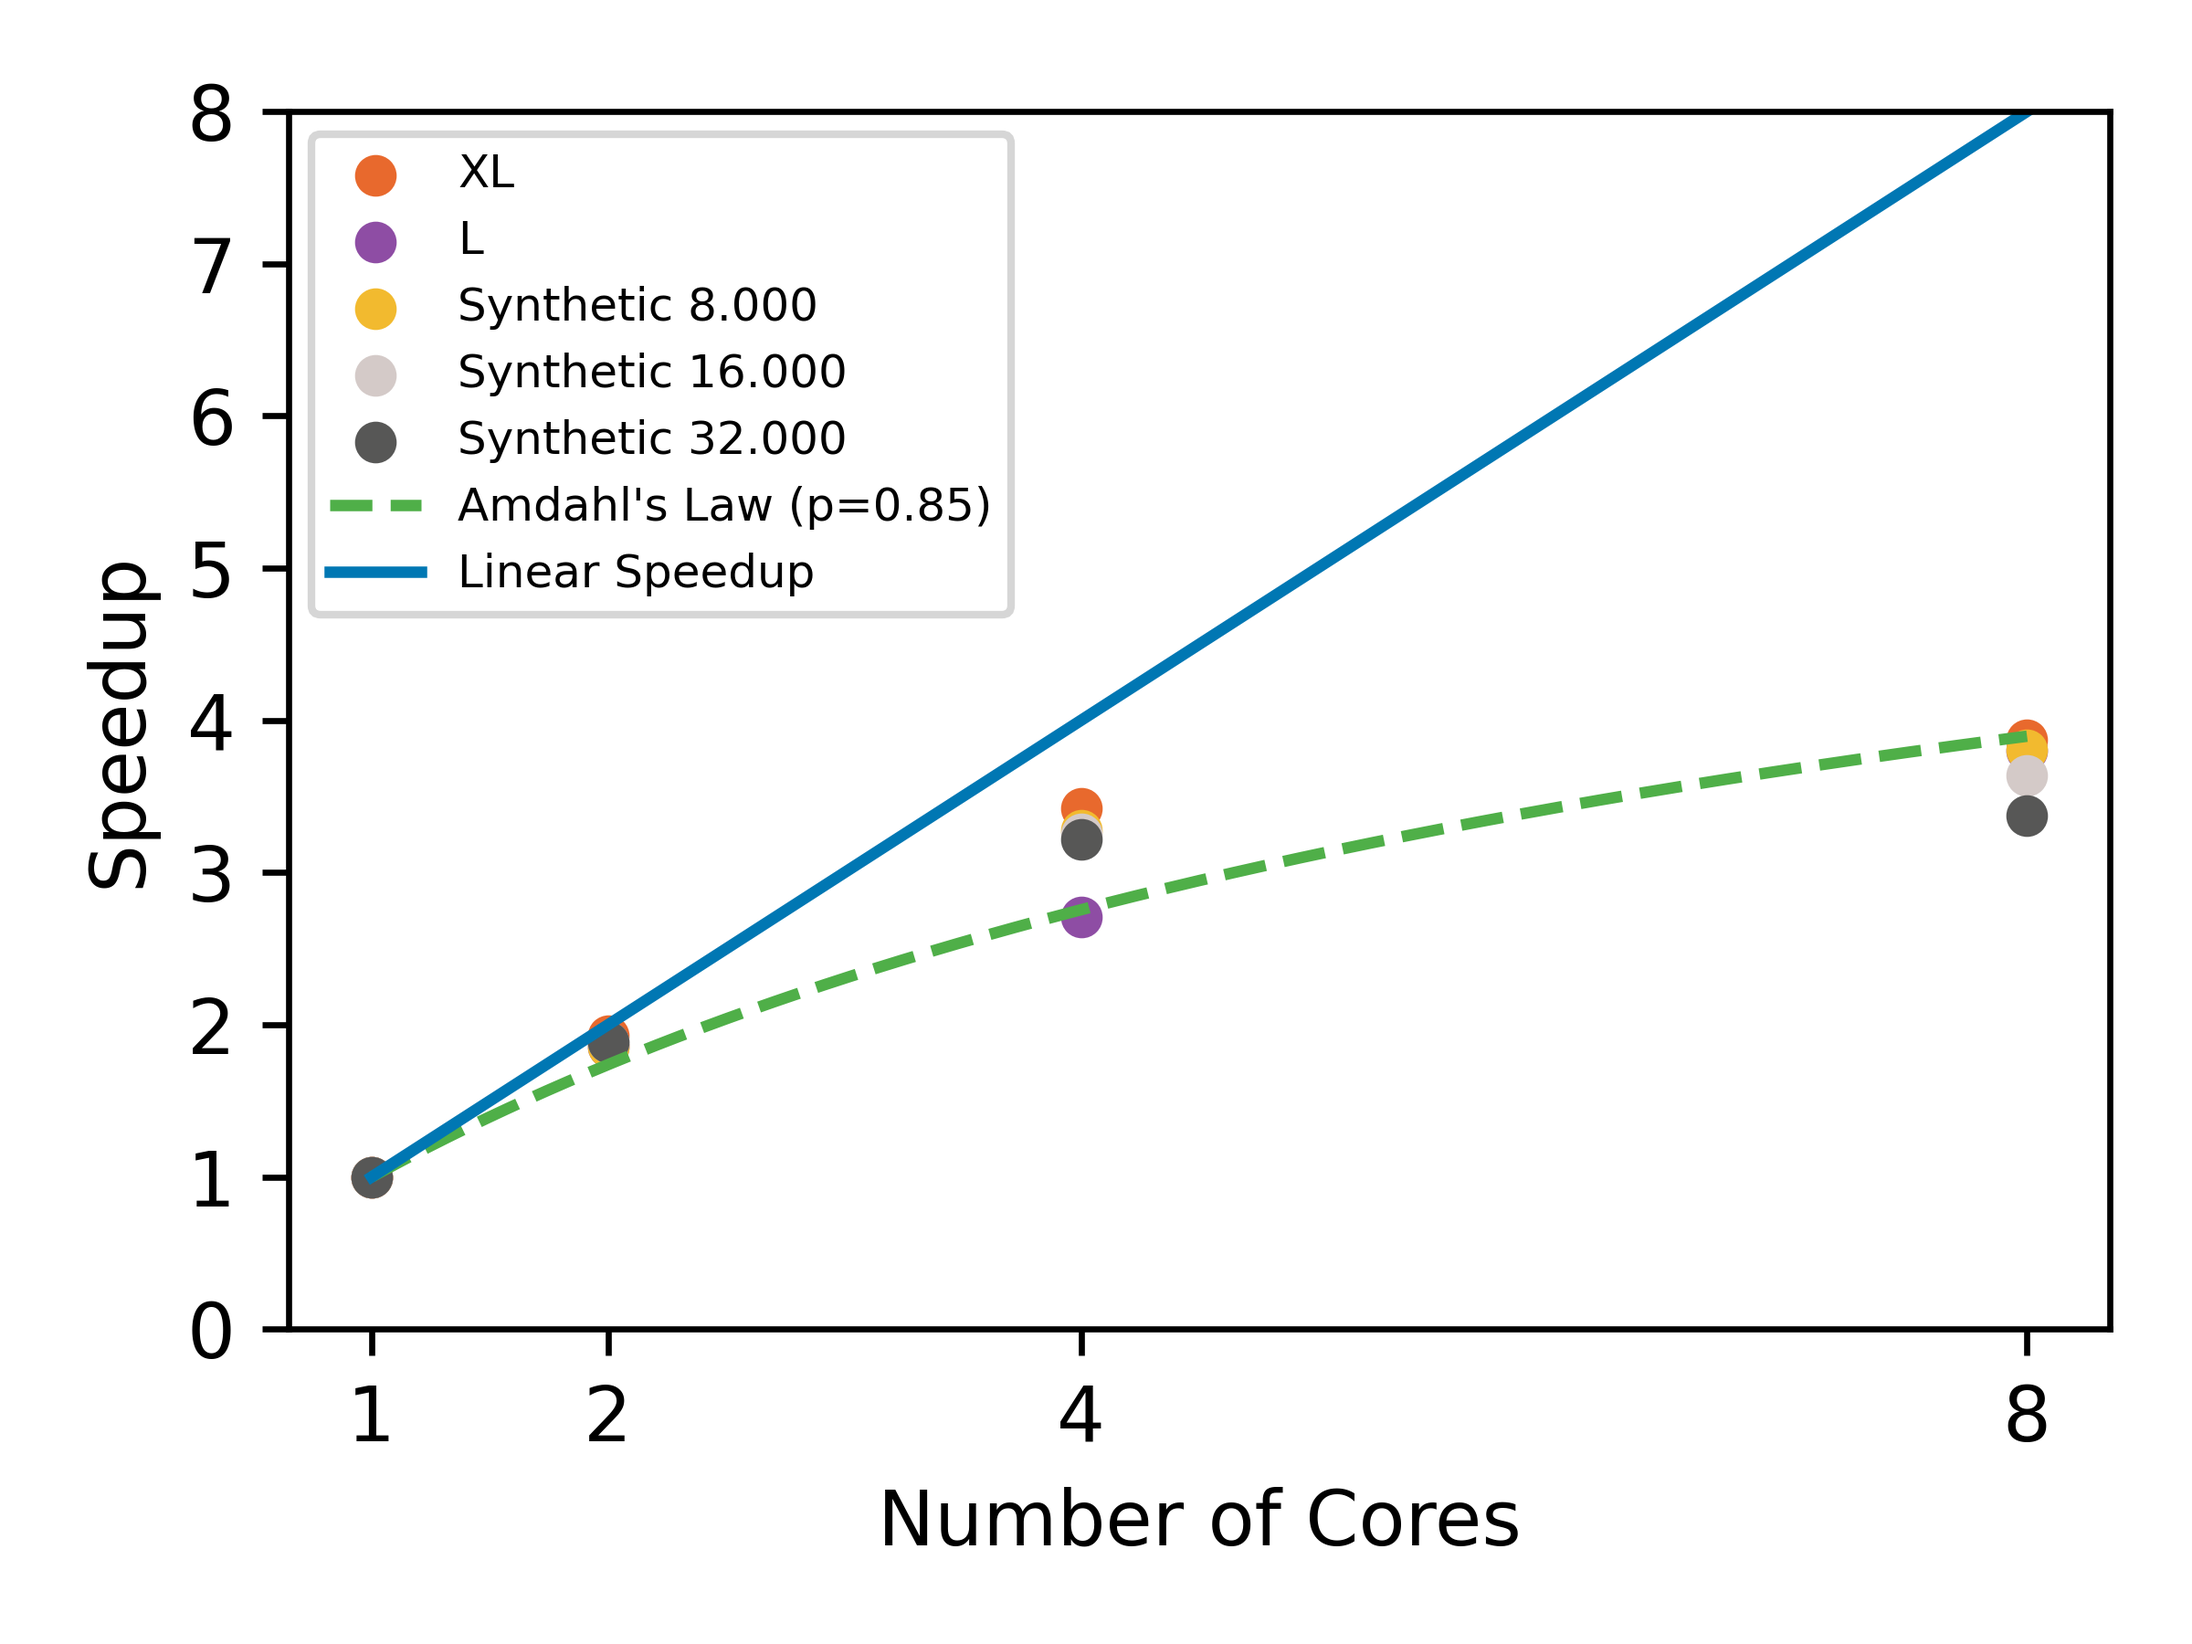
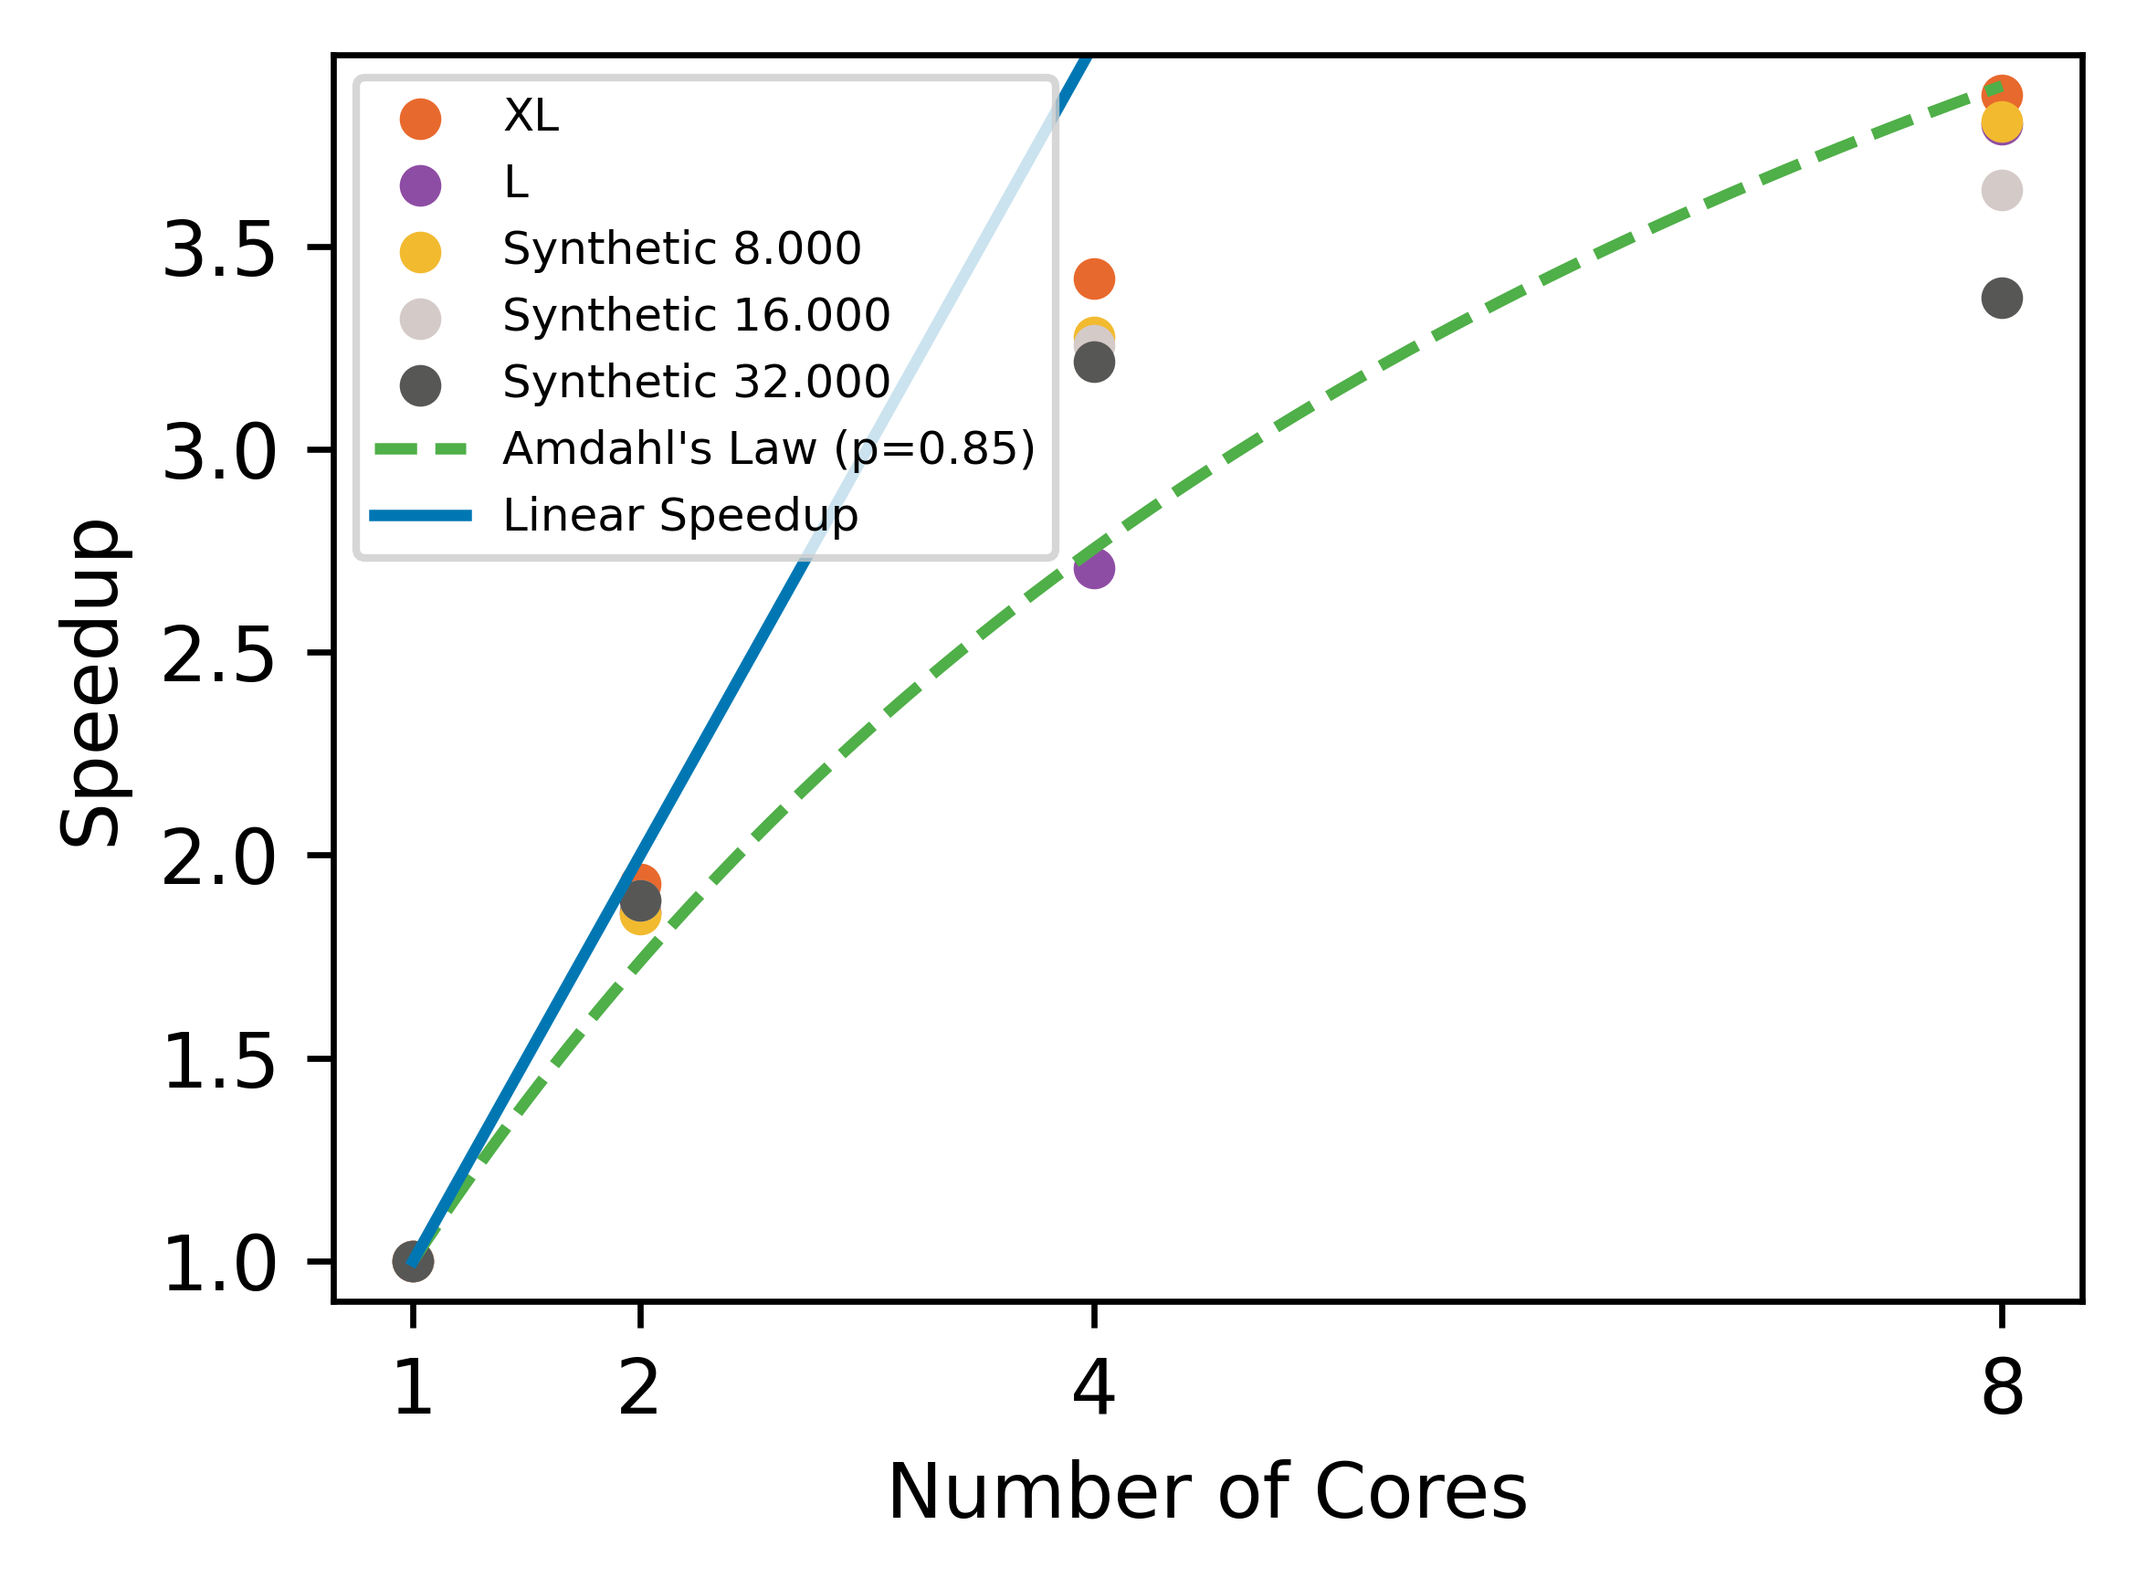
change some plotting stuff

diff --git a/plotting/worker/plot_amdahl_thread.py b/plotting/worker/plot_amdahl_thread.py
@@ -3,6 +3,7 @@ import numpy as np
 import scipy.optimize
 import json
 import copy
+import os
 
 def amdahl(s, p):
     return 1 / ((1-p) + (p/s))
@@ -42,6 +43,11 @@ for i in range(len(s1)):
     std_devs.append(np.std([t_rust_XL_speedup[i], t_rust_speedup[i], t_8_speedup[i], t_16_speedup[i], t_32_speedup[i]]))
 
 
+plt.style.use([
+    os.path.join(os.path.dirname(__file__), "../resources/vu.mplstyle"),
+    os.path.join(os.path.dirname(__file__), "../resources/twocolumn.mplstyle"),
+])
+
 popt, pcov = scipy.optimize.curve_fit(amdahl, s1, average_speedups)
 print("popt", popt, "pcov", pcov)
 
@@ -52,6 +58,12 @@ marker_size = 20
 colors = ['#0077B3', '#4FAF48', '#E8692D', '#8E4DA4', '#F2BA2F', '#D4CAC8', '#575756', '#003F6C']
 
 plt.figure(figsize=(4, 3), dpi=600)
+
+all_speedups = np.concatenate([t_rust_XL_speedup, t_rust_speedup, t_8_speedup, t_16_speedup, t_32_speedup])
+buffer = 0.1 
+lower_lim = max(min(all_speedups) - buffer, 0)  
+upper_lim = max(all_speedups) + buffer
+
 
 
 
@@ -66,7 +78,6 @@ plt.scatter(s1, t_32_speedup, color=colors[6], s = marker_size, label="Synthetic
 #              fmt='D', markersize=2, markerfacecolor='none', markeredgewidth=1, 
 #              capsize=5, label='Average Speedup w/ Std Dev', alpha=1)
 
-
 n1 = np.linspace(s1[0], s1[-1], 100000)
 plt.plot(n1, amdahl(n1, *popt), color=colors[1], ls="--", label=f"Amdahl's Law (p={round(popt[0], 2)})", alpha=1.0)
 
@@ -76,7 +87,7 @@ plt.legend(loc='upper left', fontsize = 6, )
 plt.xlabel("Number of Cores")
 plt.ylabel("Speedup")
 plt.xticks([2 ** i for i in range(4)])
-plt.ylim(0, 8)
+plt.ylim(lower_lim, upper_lim)
 
 plt.tight_layout()
-plt.savefig("plotting/strong_scalability_amdahls_threads.png")
+plt.savefig("./strong_scalability_amdahls_threads.png")

diff --git a/plotting/worker/plot_thread_scalability.py b/plotting/worker/plot_thread_scalability.py
@@ -97,4 +97,4 @@ plt.xticks([2 ** i for i in range(4)])
 plt.yticks([20 * i for i in range(5)])
 
 plt.tight_layout()
-plt.savefig("plotting/strong_scalability_percentage_threads.png")
+plt.savefig("./strong_scalability_percentage_threads.png")
